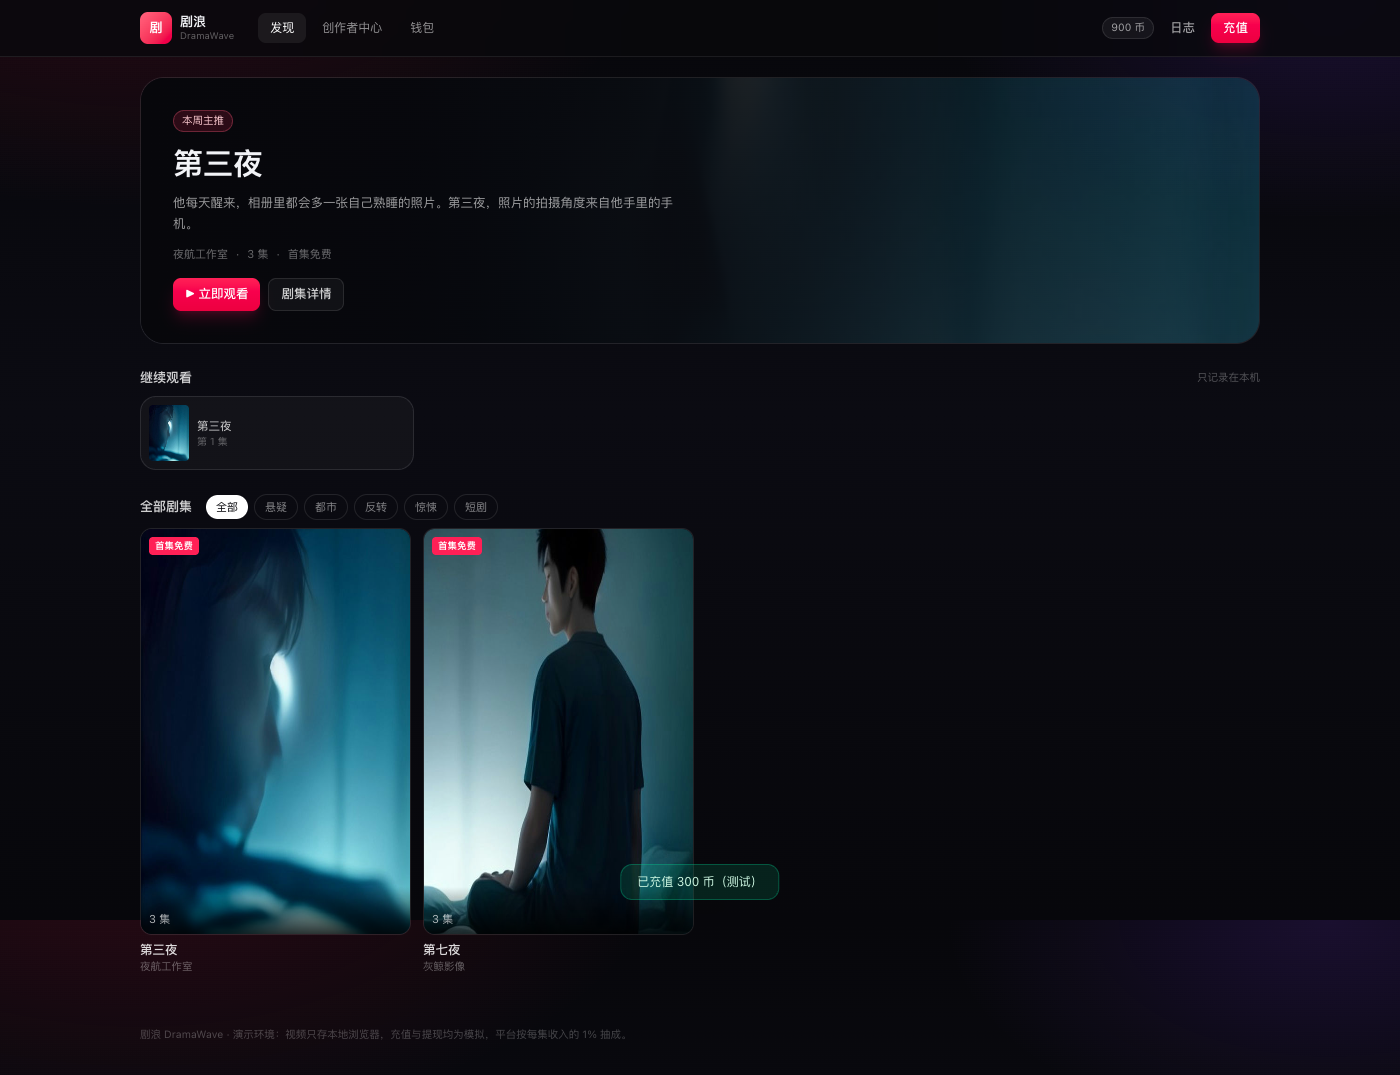
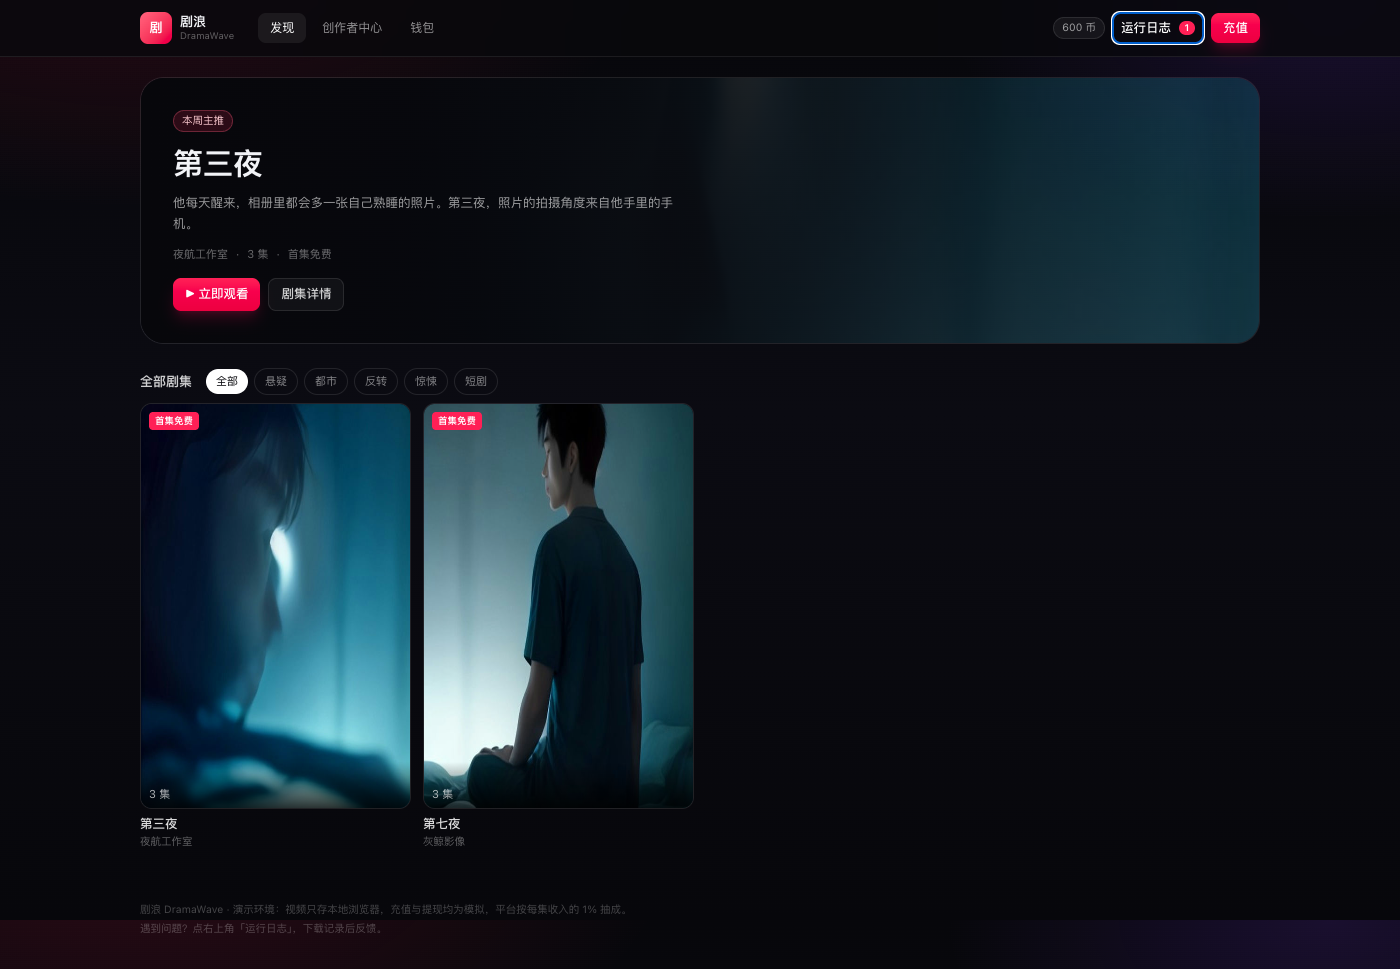
Make runtime logs easier to find
- Header button renamed to 运行日志 with a live error-count badge (desktop, mobile nav and player)
- Error toasts note that the message was recorded; footers point to the log panel
- ?logs=1 opens the panel directly for support
- Refresh READMEs with the new entry points

diff --git a/apps/dramawave/src/App.tsx b/apps/dramawave/src/App.tsx
@@ -9,7 +9,7 @@ import { Button, Modal, TextInput } from "./components/ui";
 import { loadData, putBlob, saveData, deleteBlob } from "./lib/storage";
 import { splitRevenue, formatCoins, fenToYuan } from "./lib/money";
 import { dataUrlToCover } from "./lib/image";
-import { log } from "./lib/logger";
+import { getLogs, log, subscribeLogs } from "./lib/logger";
 import { uid, type AppData, type Episode, type Series } from "./lib/types";
 
 export type Route =
@@ -49,7 +49,12 @@ export default function App() {
   const [rechargeOpen, setRechargeOpen] = useState(false);
   const [creatorDraft, setCreatorDraft] = useState("");
   const [storageWarning, setStorageWarning] = useState<string | null>(null);
-  const [logOpen, setLogOpen] = useState(false);
+  const [logOpen, setLogOpen] = useState(
+    () => new URLSearchParams(window.location.search).get("logs") === "1",
+  );
+  const [logErrorCount, setLogErrorCount] = useState(
+    () => getLogs().filter((entry) => entry.level === "error").length,
+  );
   const toastTimer = useRef<number | null>(null);
 
   useEffect(() => {
@@ -62,6 +67,12 @@ export default function App() {
       log.error("storage", "本地数据保存失败", error);
     }
   }, [data]);
+
+  useEffect(() => {
+    const update = () => setLogErrorCount(getLogs().filter((entry) => entry.level === "error").length);
+    update();
+    return subscribeLogs(update);
+  }, []);
 
   const notify = (message: string, tone: "ok" | "error" = "ok") => {
     if (tone === "error") log.warn("ui", message);
@@ -386,6 +397,7 @@ export default function App() {
           }`}
         >
           {toast.message}
+          {toast.tone === "error" ? <span className="ml-1 text-white/50">· 已记入日志</span> : null}
         </div>
       ) : null}
     </>
@@ -403,6 +415,7 @@ export default function App() {
         onSelect={(episode) => requestPlay(episode)}
         onUnlock={(episode) => setPending(episode)}
         onOpenLogs={() => setLogOpen(true)}
+        logErrorCount={logErrorCount}
       />
       {overlays}
       </>
@@ -445,7 +458,14 @@ export default function App() {
               </span>
             ) : null}
             <span className="chip">{data.wallet.balanceCoins} 币</span>
-            <Button variant="plain" className="px-2 text-white/55" onClick={() => setLogOpen(true)}>日志</Button>
+            <Button variant="plain" className="px-2 text-white/55" onClick={() => setLogOpen(true)}>
+              运行日志
+              {logErrorCount > 0 ? (
+                <span className="ml-0.5 inline-flex min-w-4 items-center justify-center rounded-full bg-rose-500 px-1 text-[9.5px] font-semibold text-white">
+                  {logErrorCount > 99 ? "99+" : logErrorCount}
+                </span>
+              ) : null}
+            </Button>
             <Button variant="primary" onClick={() => setRechargeOpen(true)}>充值</Button>
           </div>
         </div>
@@ -481,7 +501,8 @@ export default function App() {
       </main>
 
       <footer className="mx-auto max-w-6xl px-4 py-8 pb-24 text-[10.5px] text-white/25 md:pb-8">
-        剧浪 DramaWave · 演示环境：视频只存本地浏览器，充值与提现均为模拟，平台按每集收入的 1% 抽成。
+        <p>剧浪 DramaWave · 演示环境：视频只存本地浏览器，充值与提现均为模拟，平台按每集收入的 1% 抽成。</p>
+        <p className="mt-1">遇到问题？点右上角「运行日志」，下载记录后反馈。</p>
       </footer>
 
       {/* 移动端底部导航：桌面端用顶部导航 */}
@@ -507,9 +528,14 @@ export default function App() {
           <button
             type="button"
             onClick={() => setLogOpen(true)}
-            className="flex-1 py-3 text-[11px] text-white/45 transition hover:text-white"
+            className="flex flex-1 items-center justify-center gap-1 py-3 text-[11px] text-white/45 transition hover:text-white"
           >
             日志
+            {logErrorCount > 0 ? (
+              <span className="inline-flex min-w-4 items-center justify-center rounded-full bg-rose-500 px-1 text-[9px] font-semibold text-white">
+                {logErrorCount > 99 ? "99+" : logErrorCount}
+              </span>
+            ) : null}
           </button>
         </div>
       </nav>

diff --git a/apps/storyloom/src/components/Studio.tsx b/apps/storyloom/src/components/Studio.tsx
@@ -11,7 +11,7 @@ import { composePrompt } from "../lib/prompt";
 import { generateImage, fileToDataUrl } from "../lib/generate";
 import { loadProjects, saveProjects } from "../lib/storage";
 import { SAMPLE_SCRIPT } from "../lib/sample";
-import { log } from "../lib/logger";
+import { log, getLogs, subscribeLogs } from "../lib/logger";
 import { uid, type Project, type Shot, type TabId } from "../lib/types";
 
 const TABS: Array<{ id: TabId; label: string }> = [
@@ -37,7 +37,12 @@ export function Studio() {
   const [toast, setToast] = useState<Toast | null>(null);
   const [generatingAll, setGeneratingAll] = useState(false);
   const [storageWarning, setStorageWarning] = useState<string | null>(null);
-  const [logOpen, setLogOpen] = useState(false);
+  const [logOpen, setLogOpen] = useState(
+    () => new URLSearchParams(window.location.search).get("logs") === "1",
+  );
+  const [logErrorCount, setLogErrorCount] = useState(
+    () => getLogs().filter((entry) => entry.level === "error").length,
+  );
   const toastTimer = useRef<number | null>(null);
   const importRef = useRef<HTMLInputElement | null>(null);
 
@@ -60,6 +65,12 @@ export function Studio() {
       log.error("storage", "项目保存失败", error);
     }
   }, [projects]);
+
+  useEffect(() => {
+    const update = () => setLogErrorCount(getLogs().filter((entry) => entry.level === "error").length);
+    update();
+    return subscribeLogs(update);
+  }, []);
 
   const updateProject = useCallback(
     (patch: Partial<Project>) => {
@@ -251,7 +262,14 @@ export function Studio() {
                 {storageWarning}
               </span>
             ) : null}
-            <Button className="px-2" onClick={() => setLogOpen(true)}>日志</Button>
+            <Button className="px-2" onClick={() => setLogOpen(true)}>
+              运行日志
+              {logErrorCount > 0 ? (
+                <span className="ml-0.5 inline-flex min-w-4 items-center justify-center rounded-full bg-rose-500 px-1 text-[9.5px] font-semibold text-white">
+                  {logErrorCount > 99 ? "99+" : logErrorCount}
+                </span>
+              ) : null}
+            </Button>
             <Button className="hidden sm:inline-flex" onClick={() => importRef.current?.click()}>导入</Button>
             <Button variant="primary" onClick={createProject}>+ 新建</Button>
             <input
@@ -382,6 +400,10 @@ export function Studio() {
         </main>
       </div>
 
+      <footer className="px-4 pb-5 text-center text-[10px] text-white/20">
+        遇到问题？点顶部「运行日志」，下载记录后反馈。
+      </footer>
+
       <LogPanel open={logOpen} onClose={() => setLogOpen(false)} />
 
       {toast ? (
@@ -393,6 +415,7 @@ export function Studio() {
           }`}
         >
           {toast.message}
+          {toast.tone === "error" ? <span className="ml-1 text-white/50">· 已记入日志</span> : null}
         </div>
       ) : null}
     </div>

diff --git a/apps/dramawave/src/components/Player.tsx b/apps/dramawave/src/components/Player.tsx
@@ -13,9 +13,10 @@ interface Props {
   onSelect: (episode: Episode) => void;
   onUnlock: (episode: Episode) => void;
   onOpenLogs: () => void;
+  logErrorCount: number;
 }
 
-export function Player({ episode, series, episodes, unlocked, onClose, onSelect, onUnlock, onOpenLogs }: Props) {
+export function Player({ episode, series, episodes, unlocked, onClose, onSelect, onUnlock, onOpenLogs, logErrorCount }: Props) {
   const [url, setUrl] = useState<string | null>(null);
   const [error, setError] = useState<string | null>(null);
   const [ended, setEnded] = useState(false);
@@ -91,9 +92,14 @@ export function Player({ episode, series, episodes, unlocked, onClose, onSelect,
         <button
           type="button"
           onClick={onOpenLogs}
-          className="ml-auto rounded-lg bg-white/10 px-2.5 py-1 text-[11px] text-white/70 hover:bg-white/15"
+          className="ml-auto flex items-center gap-1 rounded-lg bg-white/10 px-2.5 py-1 text-[11px] text-white/70 hover:bg-white/15"
         >
           日志
+          {logErrorCount > 0 ? (
+            <span className="inline-flex min-w-4 items-center justify-center rounded-full bg-rose-500 px-1 text-[9px] font-semibold text-white">
+              {logErrorCount > 99 ? "99+" : logErrorCount}
+            </span>
+          ) : null}
         </button>
         <span className="text-[10.5px] text-white/35">
           {episode.priceCoins === 0 ? "免费" : `已解锁 · ${episode.priceCoins} 币`}

diff --git a/README.md b/README.md
@@ -62,7 +62,7 @@ npm run dev        # http://127.0.0.1:5210
 
 **创作端**：新建剧集、上传本地视频（IndexedDB，≤200MB）、单集上下架、删除、StoryLoom 导入与浏览器内合成、数据看板、提现申请（模拟）。
 
-**运行日志**：顶部「日志」查看、筛选和下载运行日志；自动记录启动、播放、解锁、导入、合成、上传、存储失败和未捕获异常，最多保留 200 条在本机。
+**运行日志**：顶部「运行日志」查看、筛选和下载；出现错误时显示红色角标，可直达 `?logs=1`。自动记录启动、播放、解锁、导入、合成、上传、存储失败和未捕获异常，最多保留 200 条在本机。
 
 **数据**：剧集/钱包/账单在 `localStorage`；视频二进制在 IndexedDB；封面压到 720px 宽。
 

diff --git a/apps/dramawave/README.md b/apps/dramawave/README.md
@@ -46,6 +46,8 @@ npm run build
 - 顶部「日志」（移动端底部导航「日志」）打开运行日志，播放器里也有入口
 - 自动记录：启动、播放、解锁、充值、提现、上传、StoryLoom 导入与合成、存储失败、未捕获异常、`console.error`
 - 支持按「警告 / 错误」筛选、下载 txt、清空；最多 200 条，只存在当前浏览器
+- 出现错误时顶部按钮显示红色计数，可直接打开查看
+- 直达链接：http://127.0.0.1:5220/?logs=1
 - 遇到问题时点「下载」，把日志文件发给开发者即可定位
 
 ## 上线还缺什么

diff --git a/apps/storyloom/README.md b/apps/storyloom/README.md
@@ -28,6 +28,8 @@ npm run build
 
 - 自动记录：启动、拆分分镜、逐镜生成成功/失败、项目导入、各类导出、存储失败、未捕获异常和 `console.error`
 - 支持按「警告 / 错误」筛选、下载 txt、清空；最多 200 条，只存在当前浏览器
+- 出现错误时顶部按钮显示红色计数，可直接打开查看
+- 直达链接：http://127.0.0.1:5210/?logs=1
 - 遇到生成失败或页面报错时，打开「日志」点「下载」，把文件发给开发者定位
 
 ## 已知限制
